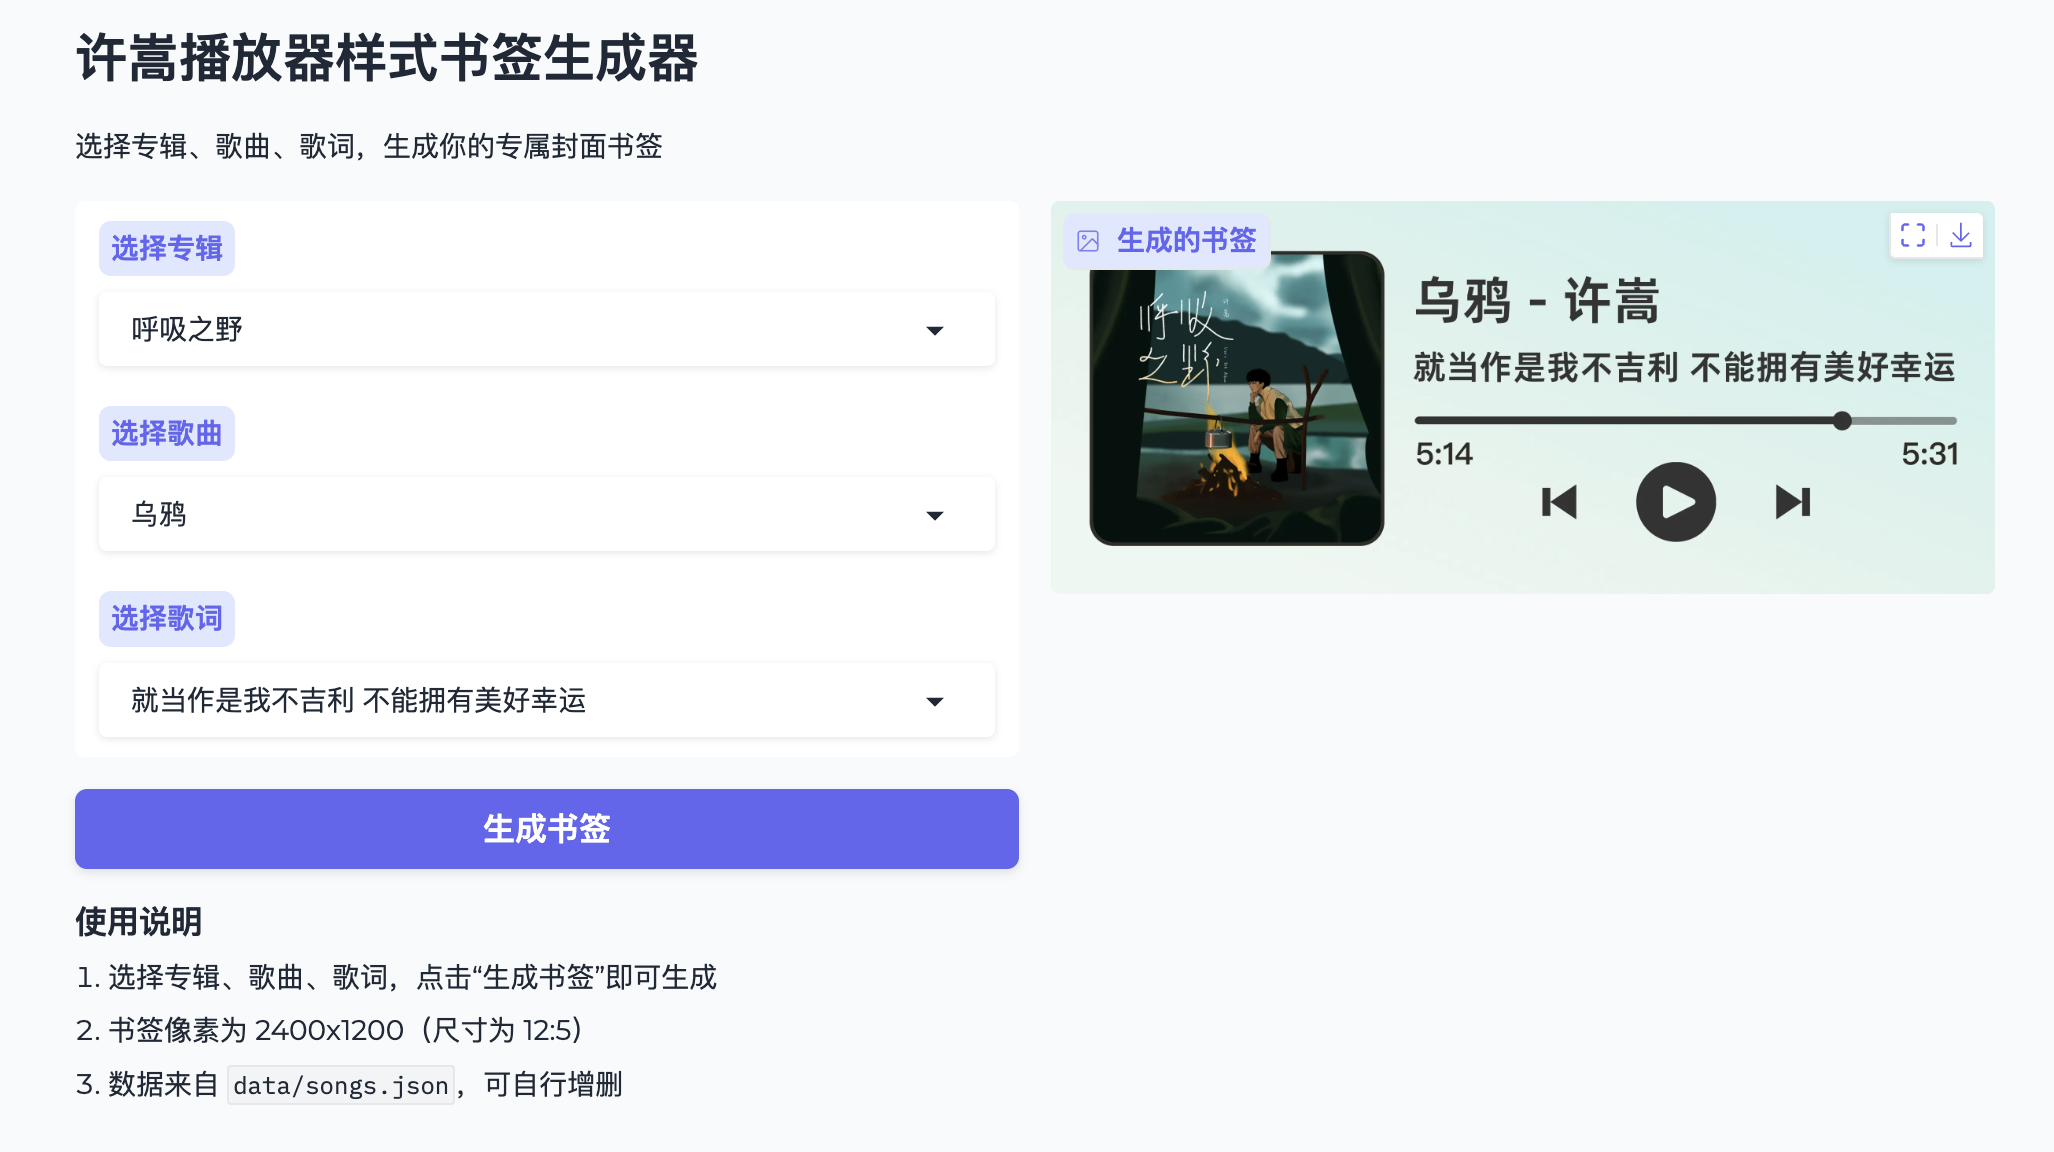
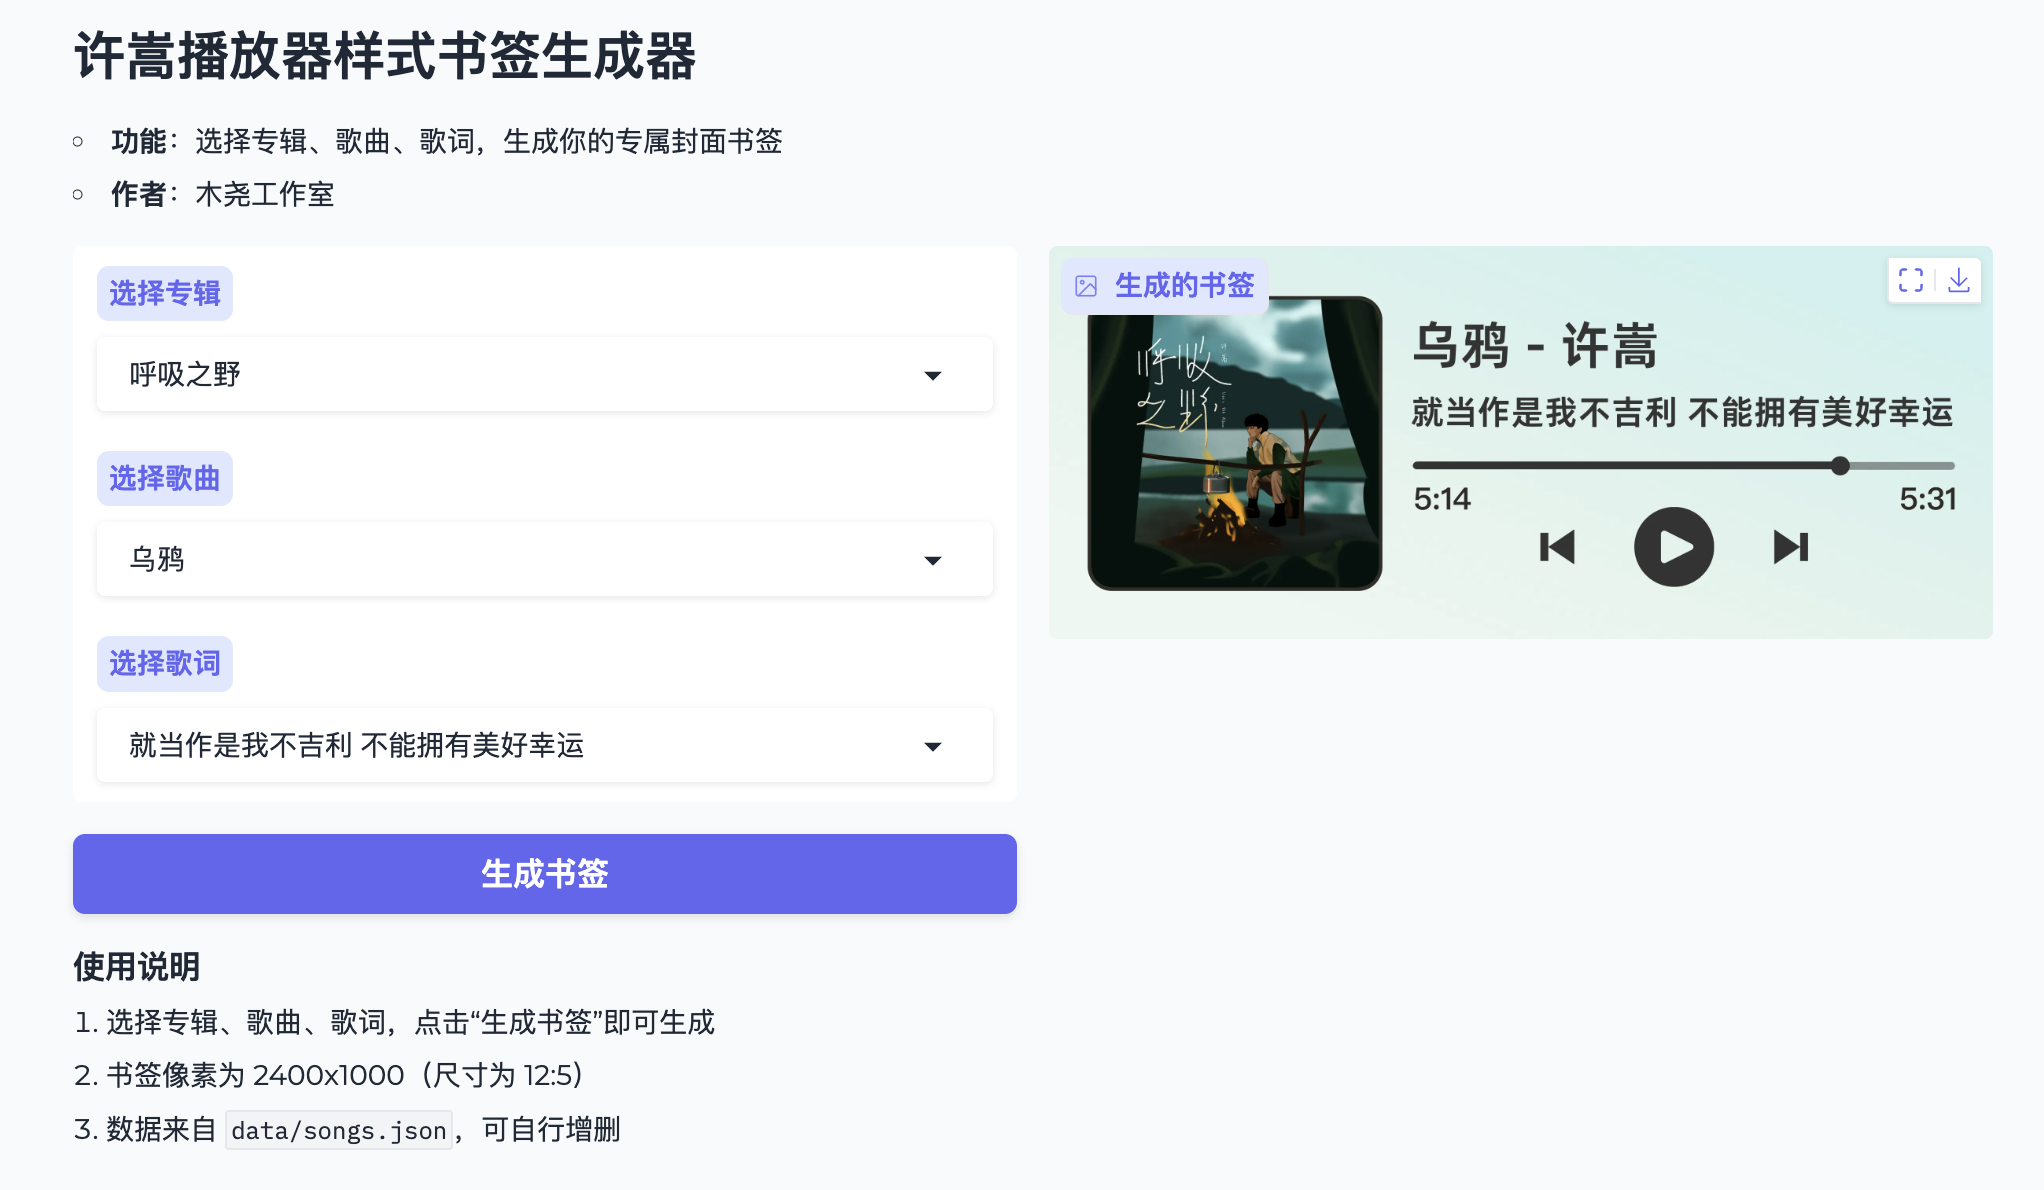
fix bugs

Changed region(s): [[0.524, 0.1562, 0.9863, 0.5], [0.0308, 0.0312, 0.4007, 0.6562], [0.0308, 0.6875, 0.4932, 0.9688]]

diff --git a/app.py b/app.py
@@ -92,7 +92,9 @@ def create_app():
 
     with gr.Blocks(title="播放器样式书签生成器", theme=gr.themes.Soft()) as app:
         gr.Markdown("# 许嵩播放器样式书签生成器")
-        gr.Markdown("选择专辑、歌曲、歌词，生成你的专属封面书签")
+        gr.Markdown("""
+        - **功能**：选择专辑、歌曲、歌词，生成你的专属封面书签
+        - **作者**：木尧工作室""")
 
         with gr.Row():
             with gr.Column(scale=1):
@@ -140,7 +142,7 @@ def create_app():
         gr.Markdown("""
         ### 使用说明
         1. 选择专辑、歌曲、歌词，点击“生成书签”即可生成
-        3. 书签像素为 2400x1200（尺寸为 12:5）
+        3. 书签像素为 2400x1000（尺寸为 12:5）
         4. 数据来自 `data/songs.json`，可自行增删
         """, height=200)
 
